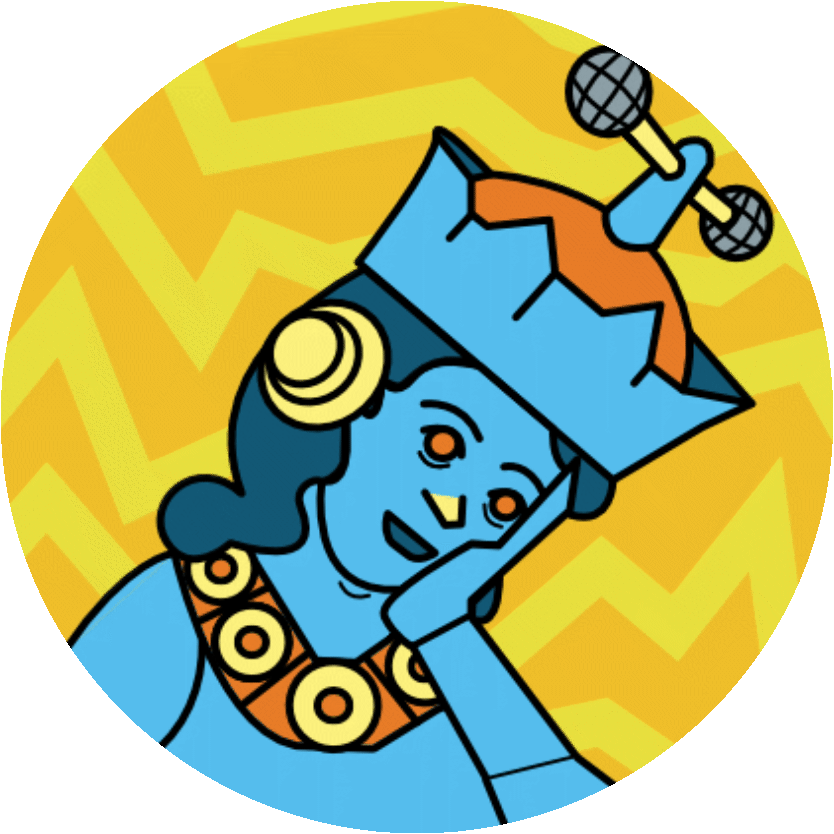
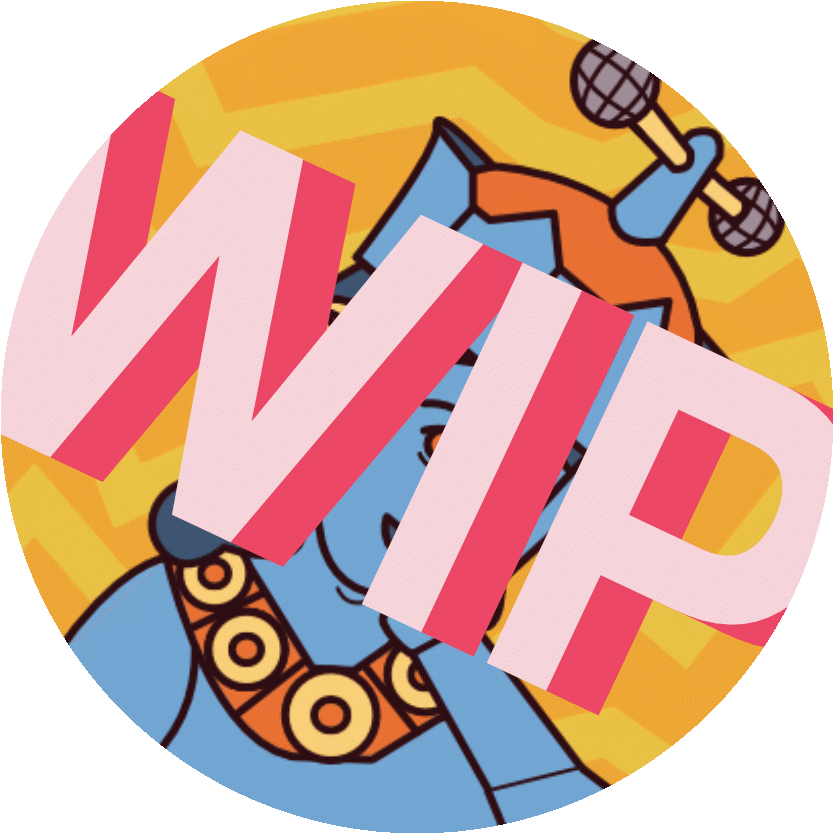
added hemnes upgrades, moved reimhard to WIP

diff --git a/scripts/data.js b/scripts/data.js
@@ -30,6 +30,16 @@ const TOOLTIP = {
 
 const PROJECT_DESC = { //in descending display order
 
+    hemnes: {
+        title: "HEMNES-UPGRADES",
+        en: " 3D printable upgrades for IKEA Hemnes beds",
+        de: " 3D-gedruckte Erweiterungen für IKEA Hemnes Betten",
+        ru: " 3D-печатные модификации для кровати «IKEA Hemnes»",
+        hrefLink: "https://github.com/philparzer/ikea-hemnes-upgrades",
+        srcImg: "./img/hemnes-upgrades.png",
+        WIP: false
+    },
+
     zebras: {
         title: "ZEBRA-PIONEERS",
         en: " a NFT drop featuring 6 animated zebras",
@@ -50,16 +60,6 @@ const PROJECT_DESC = { //in descending display order
         WIP: false
     },
 
-    reimhard: {
-        title: "REIMHARD",
-        en: " a rap battle discord bot",
-        de: " ein Discord-Bot für Rap-Battles",
-        ru: " бот-организатор рэп-баттлов на дискорде",
-        hrefLink: "https://github.com/philparzer/reimhard",
-        srcImg: "./img/reimhard.png",
-        WIP: false
-    },
-
     spi: {
         title: "SPI",
         en: " a translation of Victor Pelevin's short story 'Spi' into German",
@@ -69,6 +69,17 @@ const PROJECT_DESC = { //in descending display order
         srcImg: "./img/spi.png",
         WIP: false
     },
+
+    reimhard: {
+        title: "REIMHARD",
+        en: " a rap battle discord bot",
+        de: " ein Discord-Bot für Rap-Battles",
+        ru: " бот-организатор рэп-баттлов на дискорде",
+        hrefLink: "https://github.com/philparzer/reimhard",
+        srcImg: "./img/reimhard.png",
+        WIP: true
+    },
+
 
     wip1: {
         title: "TBA",
